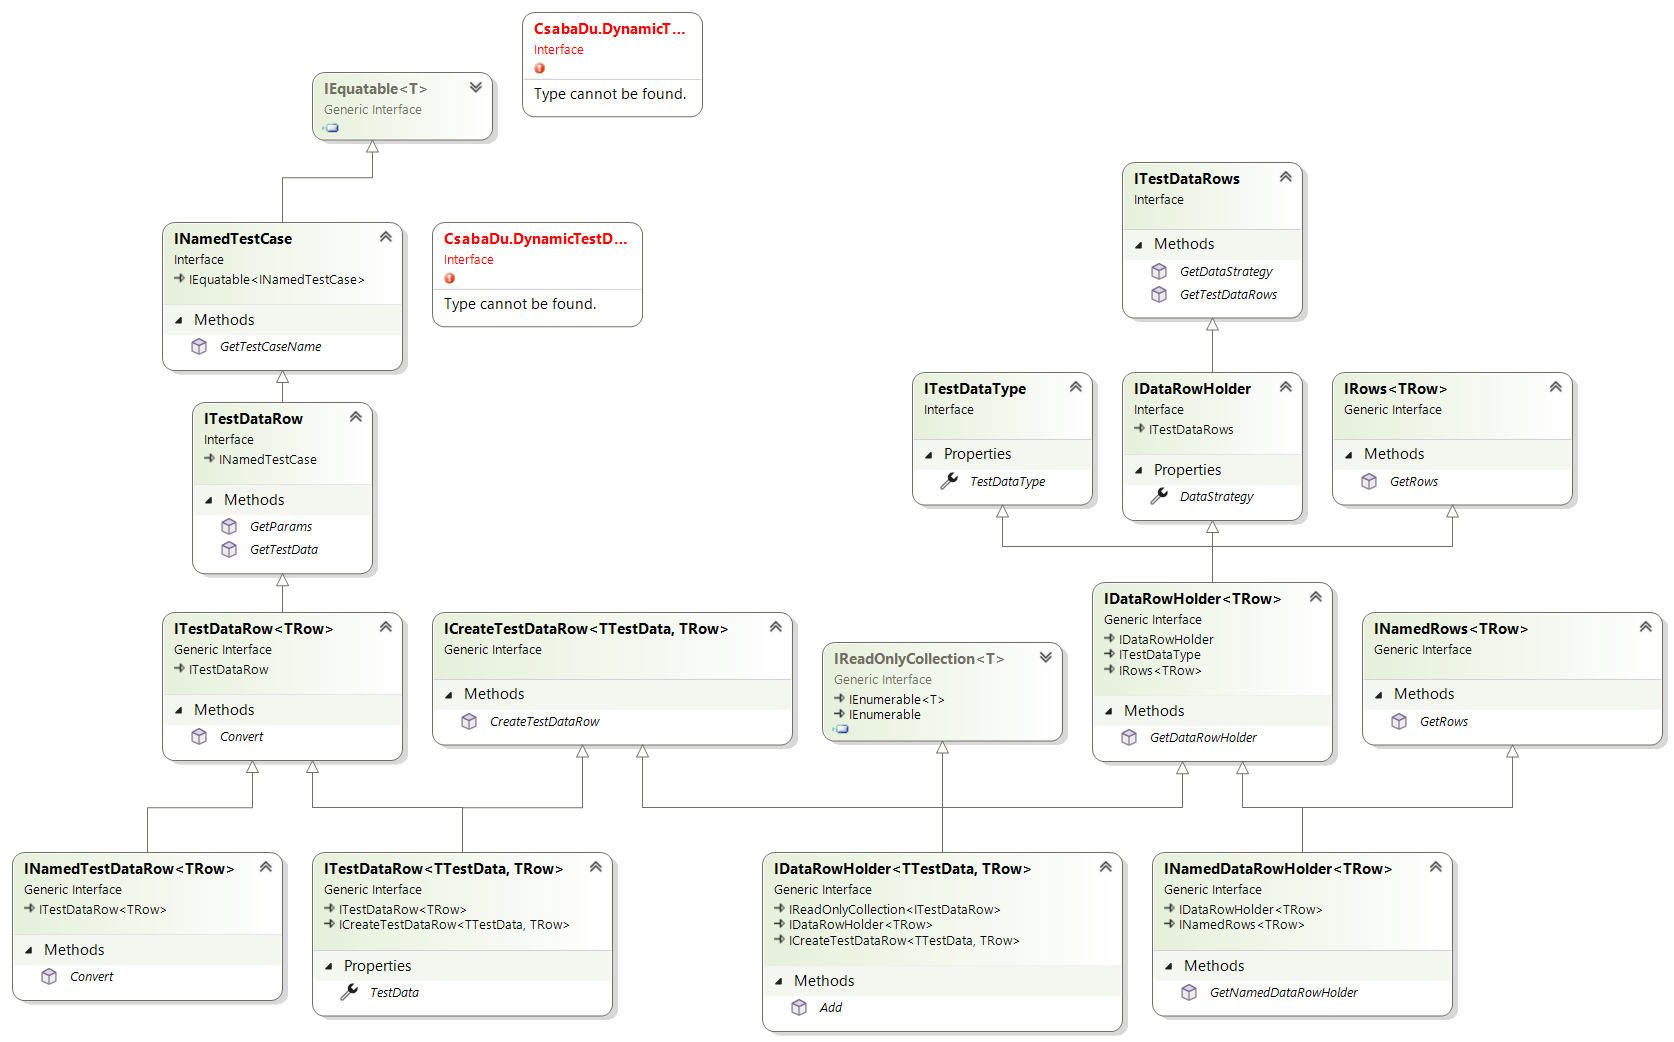
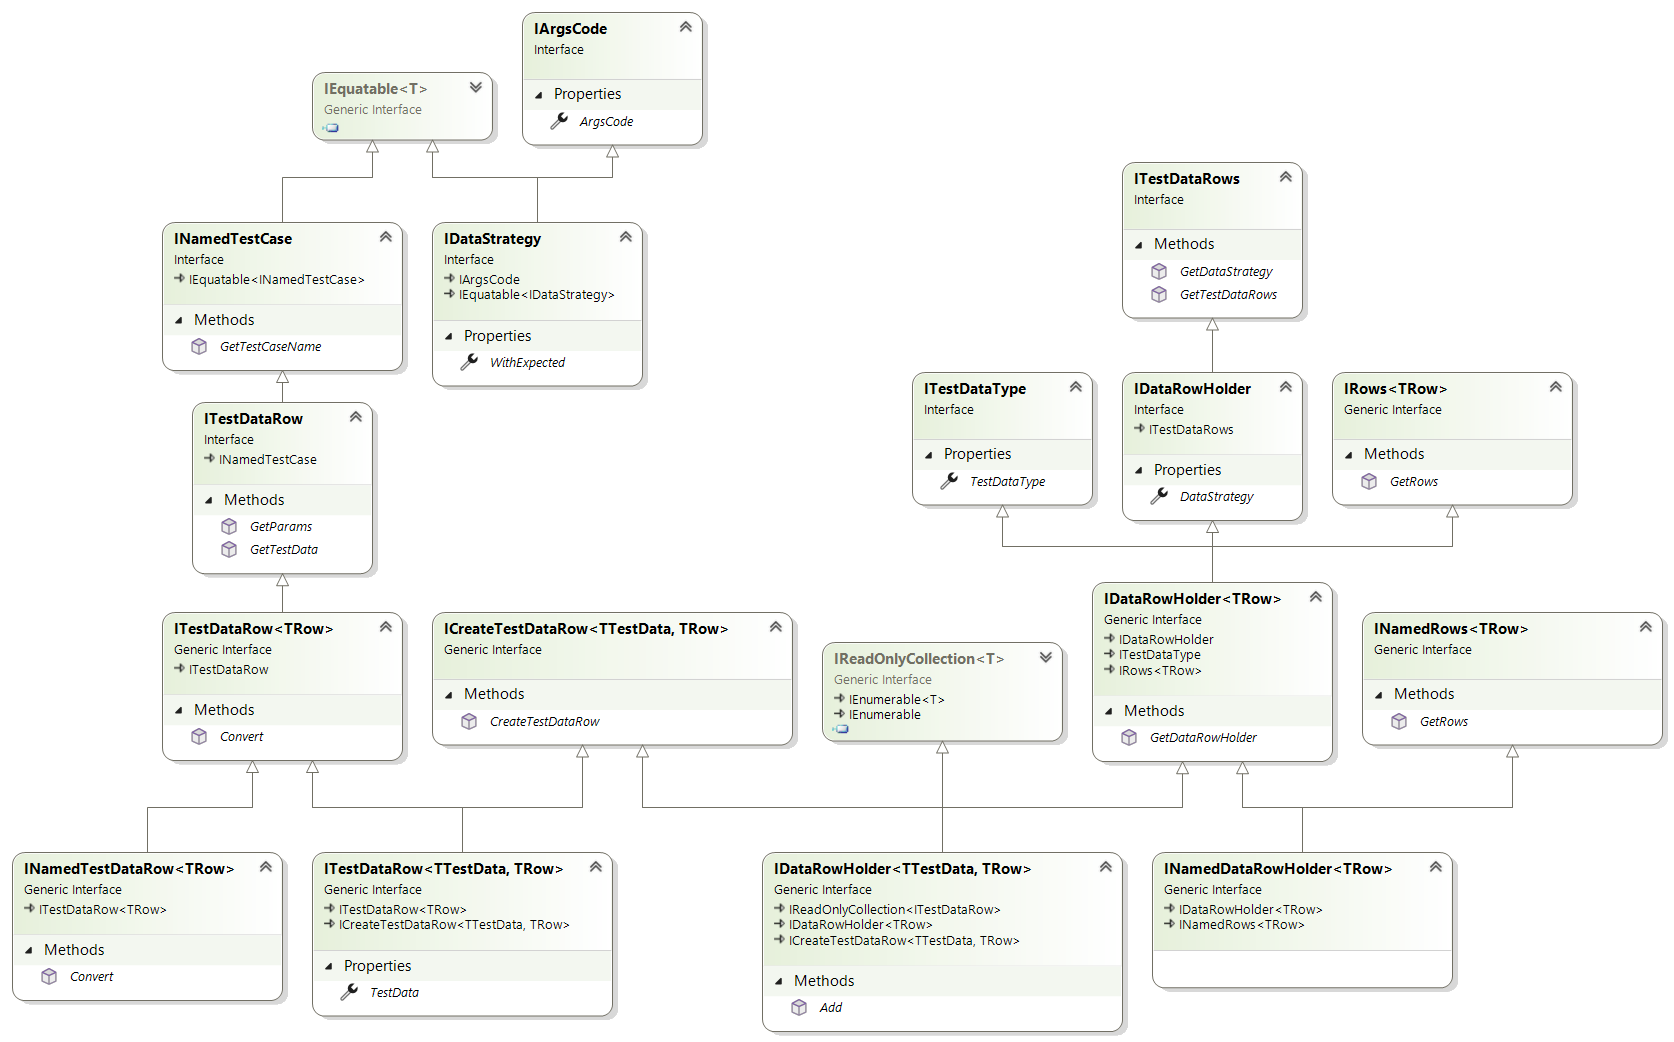
INamedDataRowHolder method cancellation

Changed region(s): [[0.2485, 0.215, 0.4038, 0.3992], [0.3106, 0.0, 0.4349, 0.1536], [0.6834, 0.9213, 0.8698, 0.9827]]

diff --git a/DataRowHolders/Interfaces/INamedDataRowHolder.cs b/DataRowHolders/Interfaces/INamedDataRowHolder.cs
@@ -5,7 +5,4 @@ namespace CsabaDu.DynamicTestData.DataRowHolders.Interfaces;
 
 public interface INamedDataRowHolder<TRow>
 : IDataRowHolder<TRow>,
-INamedRows<TRow>
-{
-    INamedDataRowHolder<TRow> GetNamedDataRowHolder(IDataStrategy dataStrategy, string? testMethodName);
-}
+INamedRows<TRow>;
